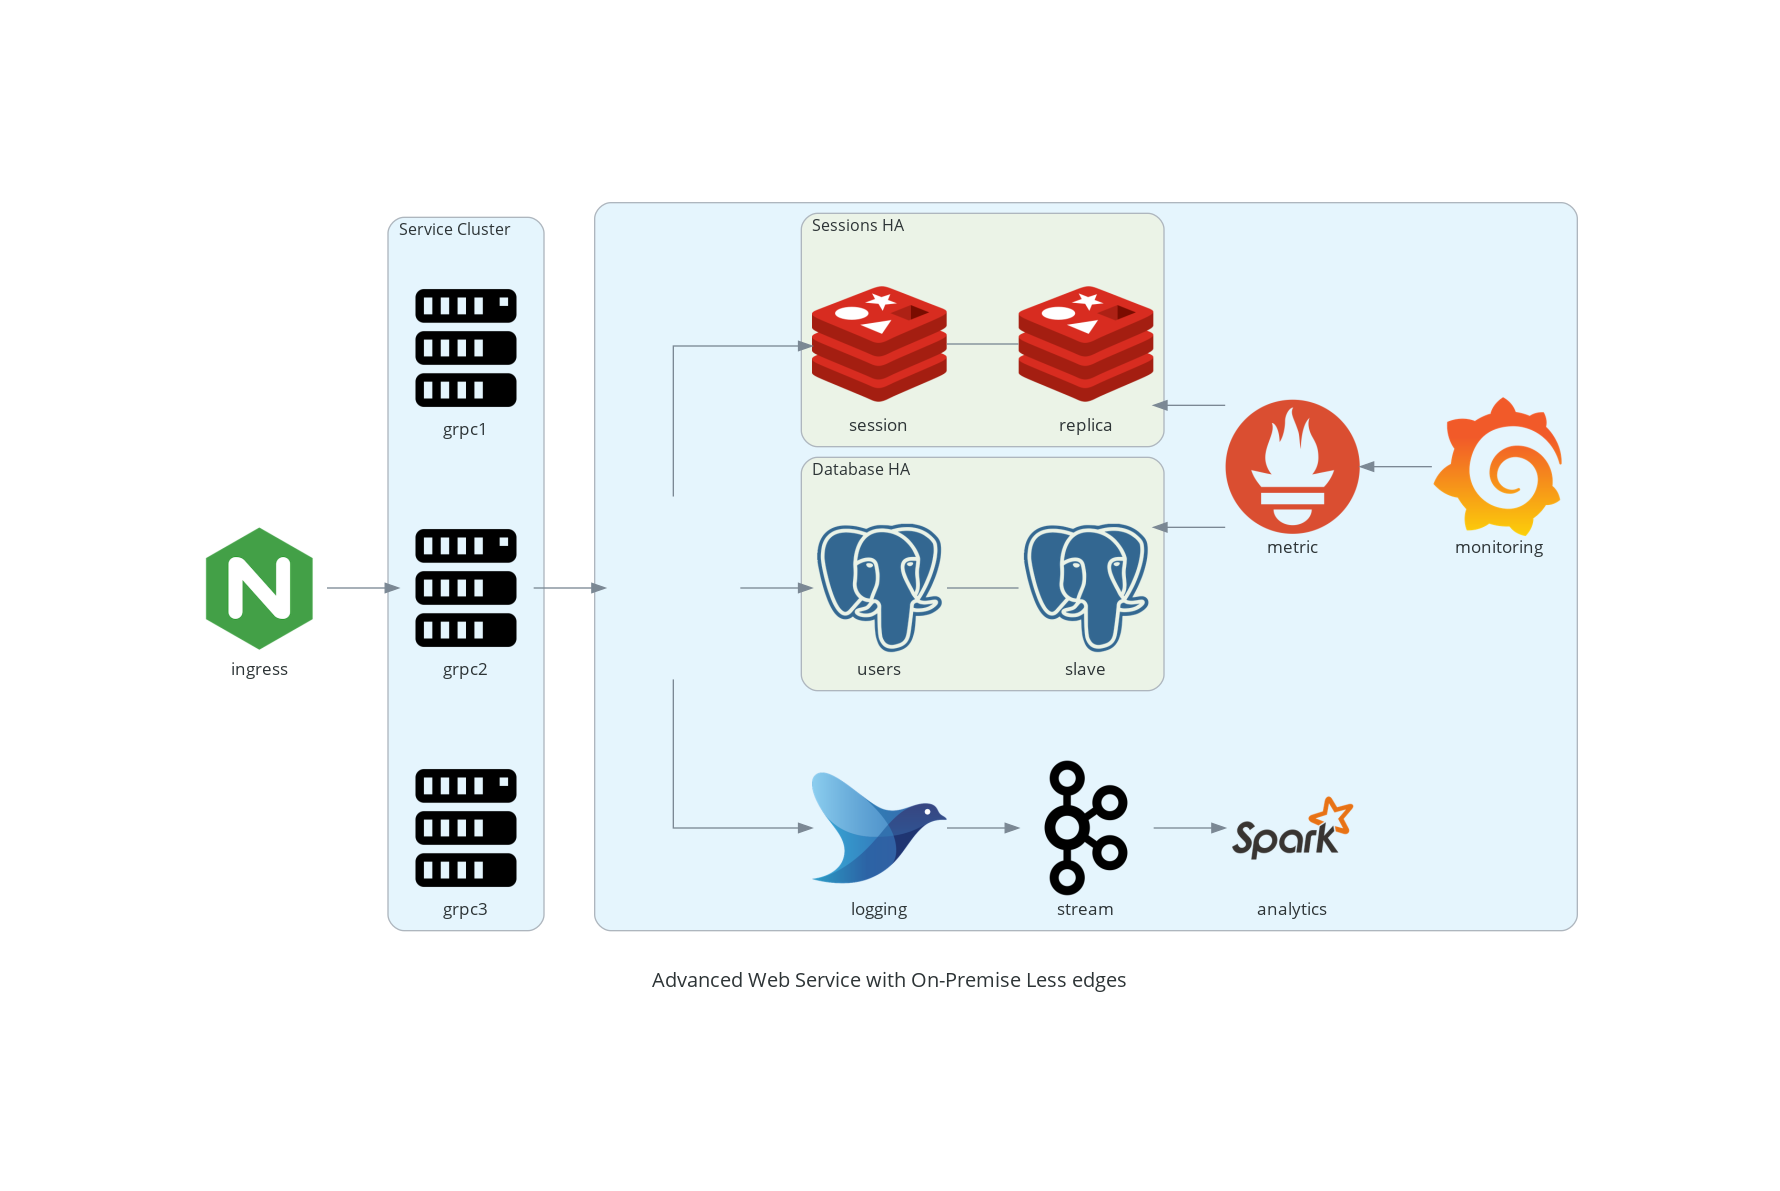
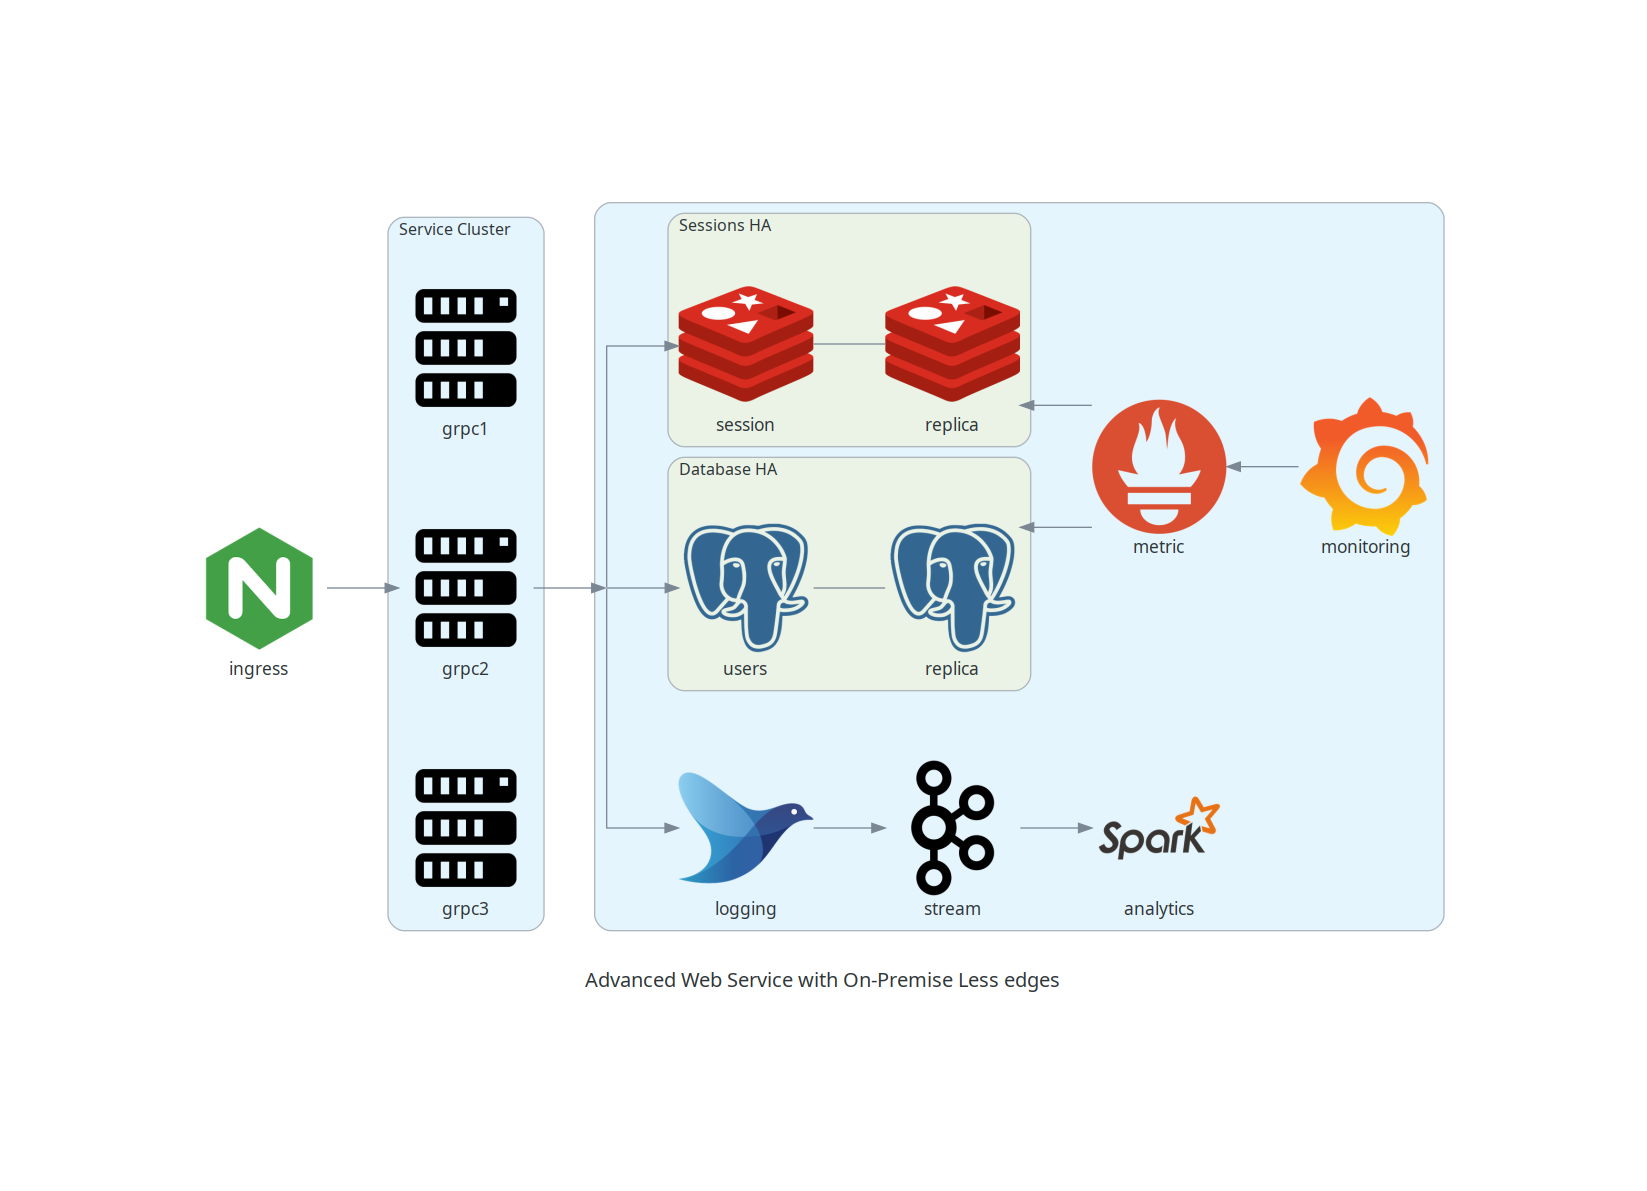
docs(edge): Updated according to @clayms review

diff --git a/docs/guides/edge.md b/docs/guides/edge.md
@@ -70,14 +70,14 @@ with Diagram(name="Advanced Web Service with On-Premise (colored)", show=False):
 
 ## Less Edges
 
-As you can see on the previous graph the edges can become quickly noisy, here one example to solve this problem.
+As you can see on the previous graph the edges can quickly become noisy. Below are two examples to solve this problem.
 
-One hack is to get creative with Custom to create blank placeholders, together with named nodes within Clusters, and then only pointing to single named elements within those Clusters.
+One approach is to get creative with the Node class to create blank placeholders, together with named nodes within Clusters, and then only pointing to single named elements within those Clusters.
 
-Compare the output below to the example output linked to above .
+Compare the output below to the example output above .
 
 ```python
-from diagrams import Cluster, Diagram
+from diagrams import Cluster, Diagram, Node
 from diagrams.onprem.analytics import Spark
 from diagrams.onprem.compute import Server
 from diagrams.onprem.database import PostgreSQL
@@ -86,18 +86,17 @@ from diagrams.onprem.aggregator import Fluentd
 from diagrams.onprem.monitoring import Grafana, Prometheus
 from diagrams.onprem.network import Nginx
 from diagrams.onprem.queue import Kafka
-from diagrams.custom import Custom
 
 with Diagram("\nAdvanced Web Service with On-Premise Less edges", show=False) as diag:
     ingress = Nginx("ingress")
 
     with Cluster("Service Cluster"):
-            serv1 = Server("grpc1")
-            serv2 = Server("grpc2")
-            serv3 = Server("grpc3")
+        serv1 = Server("grpc1")
+        serv2 = Server("grpc2")
+        serv3 = Server("grpc3")
 
     with Cluster(""):
-        blankHA = Custom("","tranparent.png")
+        blankHA = Node("", shape="plaintext", width="0", height="0")
 
         metrics = Prometheus("metric")
         metrics << Grafana("monitoring")
@@ -106,14 +105,14 @@ with Diagram("\nAdvanced Web Service with On-Premise Less edges", show=False) as
         blankHA >> aggregator >> Kafka("stream") >> Spark("analytics")
 
         with Cluster("Database HA"):
-            master = PostgreSQL("users")
-            master - PostgreSQL("slave") << metrics
-            blankHA >> master
+            db = PostgreSQL("users")
+            db - PostgreSQL("replica") << metrics
+            blankHA >> db
 
         with Cluster("Sessions HA"):
-            master = Redis("session")
-            master - Redis("replica") << metrics
-            blankHA >> master
+            sess = Redis("session")
+            sess - Redis("replica") << metrics
+            blankHA >> sess
 
     ingress >> serv2 >> blankHA
 
@@ -129,9 +128,8 @@ Yet another option is to set the graph_attr dictionary key "concentrate" to "tru
 Note the following restrictions:
 
 1.  the Edge must end at the same headport
-2.  this only works when the minlen of the Edges to be greater than "1".
-3.  I could only get this to work when the "splines" graph_attr key was set to the value "spline". It had no effect when the value was set to "ortho", which is the default for the diagrams library.
-4. this will only work with the "dot" layout engine, which is the default for the diagrams library.
+2.  This only works when the "splines" graph_attr key is set to the value "spline". It has no effect when the value was set to "ortho", which is the default for the diagrams library.
+3. this will only work with the "dot" layout engine, which is the default for the diagrams library.
 
 For more information see:
 
@@ -184,7 +182,7 @@ with Diagram("\n\nAdvanced Web Service with On-Premise Merged edges", show=False
 
     with Cluster("Database HA"):
         db = PostgreSQL("users")
-        db - PostgreSQL("slave") << metrics
+        db - PostgreSQL("replica") << metrics
 
     aggregator = Fluentd("logging")
     aggregator >> Kafka("stream") >> Spark("analytics")
